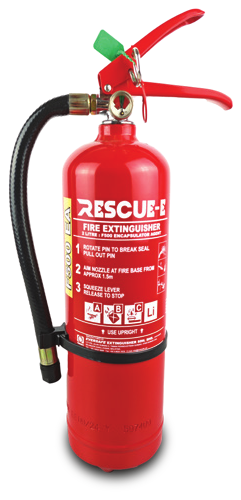
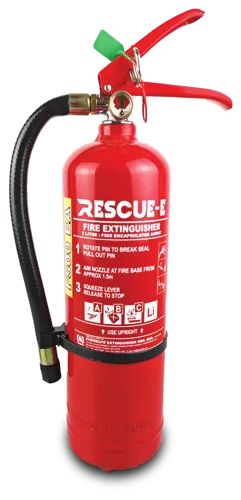
Cut page weight by 80 percent and fix truncated titles
Applies the outstanding quick wins from the SEO audit.

Images
  trimylogo.webp   1818x1818, 473 KB -> 160x160, 11 KB
The logo renders at 46 pixels in the header and 42 in the footer and is
referenced four times per page, so it accounted for roughly 950 KB of a
1,078 KB page load on its own. Product imagery was recompressed and capped
at an 800 pixel long edge, 1,320 KB to 270 KB across ten files, with no
visible difference at the size these render.

Measured on the homepage at 390px: 1,078 KB to 261 KB transferred, LCP
1,820 ms to 928 ms.

Metadata
Every page had a title over the roughly 60 characters Google displays, the
homepage worst at 101, and six had descriptions over the 155 character limit,
the homepage at 256. All titles are now 42 to 54 characters and all
descriptions 123 to 137, so neither is cut off in results. og:title and
og:description follow the same text.

Headings
Products, Services and Contact used their own nav label as the H1, spending
the strongest on-page signal on a category word. They now read Fire
Protection Products, Fire Protection Services and Contact Trimy Fire Tech.

The homepage H1 and H2s are left exactly as written. They carry no target
keywords, which has an SEO cost, but they are deliberate brand copy from the
PR #8 redesign rather than placeholders, so that tradeoff belongs to the
author and not to this change.

Verified in a browser at 390px and 1440px across all eleven content pages:
[…]

diff --git a/products/index.html b/products/index.html
@@ -3,8 +3,8 @@
 <head>
 <meta charset="utf-8">
 <meta name="viewport" content="width=device-width, initial-scale=1">
-<title>Fire Protection Products Johor | Fire Systems, Extinguishers, EV Fire Safety | Trimy Fire Tech</title>
-<meta name="description" content="Fire protection products in Johor. Fire protection and fire suppression systems, fire extinguishers in 1KG, 3KG and 9KG, fire blankets, smoke detectors, Bomba licence application and renewal, and SIRIM approved EV fire safety equipment.">
+<title>Fire Extinguishers and Safety Products | Johor Bahru</title>
+<meta name="description" content="Fire extinguishers from 1KG to 9KG, fire blankets, EV fire safety equipment and signage, delivered across Johor Bahru and Johor.">
 <meta name="keywords" content="fire protection products Johor, fire system supplier Johor, fire extinguisher 1KG, fire extinguisher 3KG, fire extinguisher 9KG, fire extinguisher stand Johor, fire safety signage Johor, fire blanket Malaysia, smoke detector Johor, emergency key box Malaysia, bomba licence Johor, bomba licence renewal Johor, new bomba licence, EV fire blanket SIRIM, EEV2, EEV9, MEM45, EV fire safety Malaysia, fire suppression system Johor, fire protection system Johor">
 <meta name="author" content="Trimy Fire Tech Sdn Bhd">
 <meta name="theme-color" content="#053097">
@@ -13,8 +13,8 @@
 
 <meta property="og:type" content="website">
 <meta property="og:site_name" content="Trimy Fire Tech Sdn Bhd">
-<meta property="og:title" content="Fire Protection Products Johor | Fire Systems, Extinguishers, EV Fire Safety | Trimy Fire Tech">
-<meta property="og:description" content="Fire protection products in Johor. Fire protection and fire suppression systems, fire extinguishers in 1KG, 3KG and 9KG, fire blankets, smoke detectors, Bomba licence application and renewal, and SIRIM approved EV fire safety equipment.">
+<meta property="og:title" content="Fire Extinguishers and Safety Products | Johor Bahru">
+<meta property="og:description" content="Fire extinguishers from 1KG to 9KG, fire blankets, EV fire safety equipment and signage, delivered across Johor Bahru and Johor.">
 <meta property="og:url" content="https://trimyfire.com.my/products/">
 <meta property="og:image" content="https://trimyfire.com.my/images/products-banner.jpg">
 <meta property="og:locale" content="en_MY">
@@ -72,7 +72,7 @@
   <img class="pbanner__bg" src="/images/products-banner.jpg" alt="" aria-hidden="true">
   <div class="wrap"><div class="pbanner__inner">
     <p class="crumbs"><a href="/">Home</a> &nbsp;/&nbsp; Products</p>
-    <h1 class="h-xl">Products</h1>
+    <h1 class="h-xl">Fire Protection Products</h1>
     <p>Everything from complete building systems to a single fire extinguisher. Choose a category below.</p>
   </div></div>
 </section>

diff --git a/services/index.html b/services/index.html
@@ -3,8 +3,8 @@
 <head>
 <meta charset="utf-8">
 <meta name="viewport" content="width=device-width, initial-scale=1">
-<title>Fire Protection Services Johor | Fire System Installation, Servicing, Bomba | Trimy Fire Tech</title>
-<meta name="description" content="Fire protection services in Johor. Fire system design and installation, fire suppression systems, scheduled maintenance and servicing, Bomba submission and Fire Certificate renewal for commercial and industrial premises.">
+<title>Fire Protection Services Johor Bahru | Trimy Fire Tech</title>
+<meta name="description" content="Fire system design, installation, servicing and Bomba submission for commercial and industrial premises across Johor Bahru and Johor.">
 <meta name="keywords" content="fire protection services Johor, fire system services Johor, fire protection contractor Johor, fire alarm servicing Johor, sprinkler installation Johor, hydrant servicing Johor, hose reel servicing Johor, bomba submission Johor, fire certificate renewal Johor, fire system maintenance Johor, CO2 panel troubleshooting Johor, fire extinguisher servicing Johor, fire suppression system Johor, fire safety training Johor">
 <meta name="author" content="Trimy Fire Tech Sdn Bhd">
 <meta name="theme-color" content="#053097">
@@ -13,8 +13,8 @@
 
 <meta property="og:type" content="website">
 <meta property="og:site_name" content="Trimy Fire Tech Sdn Bhd">
-<meta property="og:title" content="Fire Protection Services Johor | Fire System Installation, Servicing, Bomba | Trimy Fire Tech">
-<meta property="og:description" content="Fire protection services in Johor. Fire system design and installation, fire suppression systems, scheduled maintenance and servicing, Bomba submission and Fire Certificate renewal for commercial and industrial premises.">
+<meta property="og:title" content="Fire Protection Services Johor Bahru | Trimy Fire Tech">
+<meta property="og:description" content="Fire system design, installation, servicing and Bomba submission for commercial and industrial premises across Johor Bahru and Johor.">
 <meta property="og:url" content="https://trimyfire.com.my/services/">
 <meta property="og:image" content="https://trimyfire.com.my/images/services-banner.jpg">
 <meta property="og:locale" content="en_MY">
@@ -84,7 +84,7 @@
   <img class="pbanner__bg" src="/images/services-banner.jpg" alt="" aria-hidden="true">
   <div class="wrap"><div class="pbanner__inner">
     <p class="crumbs"><a href="/">Home</a> &nbsp;/&nbsp; Services</p>
-    <h1 class="h-xl">Services</h1>
+    <h1 class="h-xl">Fire Protection Services</h1>
     <p>Design, installation, commissioning, certification and scheduled maintenance delivered under a single contract.</p>
   </div></div>
 </section>

diff --git a/index.html b/index.html
@@ -3,8 +3,8 @@
 <head>
 <meta charset="utf-8">
 <meta name="viewport" content="width=device-width, initial-scale=1">
-<title>Fire Protection System Supplier Johor | Fire Systems, Extinguishers, EV Fire Safety | Trimy Fire Tech</title>
-<meta name="description" content="Fire protection system supplier in Johor. Fire protection and fire suppression systems for factories, malls and offices. Fire alarm, sprinkler, hydrant, fire extinguisher supply and servicing, Bomba certification and SIRIM approved EV fire safety products.">
+<title>Fire Protection Systems Johor Bahru | Trimy Fire Tech</title>
+<meta name="description" content="Fire protection systems, extinguishers and Bomba certification for commercial and industrial premises across Johor Bahru and Johor.">
 <meta name="keywords" content="fire protection system supplier Johor, fire protection system Johor, fire suppression system Johor, fire alarm system Johor Bahru, sprinkler system Johor, hydrant system Johor, hose reel system Johor, fire extinguisher Johor Bahru, fire extinguisher supplier Johor, bomba certificate Johor, bomba licence renewal Johor, fire certificate renewal Malaysia, EV fire safety Malaysia, EV fire blanket SIRIM, EV car fire extinguisher, lithium battery fire Malaysia, CO2 suppression system Johor, smoke detector Johor, fire blanket Malaysia, fire safety training Johor, fire protection contractor Johor Bahru">
 <meta name="author" content="Trimy Fire Tech Sdn Bhd">
 <meta name="theme-color" content="#053097">
@@ -13,8 +13,8 @@
 
 <meta property="og:type" content="website">
 <meta property="og:site_name" content="Trimy Fire Tech Sdn Bhd">
-<meta property="og:title" content="Fire Protection System Supplier Johor | Fire Systems, Extinguishers, EV Fire Safety | Trimy Fire Tech">
-<meta property="og:description" content="Fire protection system supplier in Johor. Fire protection and fire suppression systems for factories, malls and offices. Fire alarm, sprinkler, hydrant, fire extinguisher supply and servicing, Bomba certification and SIRIM approved EV fire safety products.">
+<meta property="og:title" content="Fire Protection Systems Johor Bahru | Trimy Fire Tech">
+<meta property="og:description" content="Fire protection systems, extinguishers and Bomba certification for commercial and industrial premises across Johor Bahru and Johor.">
 <meta property="og:url" content="https://trimyfire.com.my/">
 <meta property="og:image" content="https://trimyfire.com.my/images/services-banner.jpg">
 <meta property="og:locale" content="en_MY">

diff --git a/contact.html b/contact.html
@@ -3,8 +3,8 @@
 <head>
 <meta charset="utf-8">
 <meta name="viewport" content="width=device-width, initial-scale=1">
-<title>Contact Trimy Fire Tech | Fire System and Fire Extinguisher Enquiries, Johor</title>
-<meta name="description" content="Contact Trimy Fire Tech in Kulai, Johor for fire protection system installation, maintenance, equipment supply and Bomba submission. Telephone +6012 779 9808.">
+<title>Contact Trimy Fire Tech | Johor Bahru and Kulai</title>
+<meta name="description" content="Contact Trimy Fire Tech in Kulai for fire system installation, servicing, equipment supply and Bomba submission. Call +6012 779 9808.">
 <meta name="keywords" content="contact fire protection company Johor, fire protection contractor Kulai, fire extinguisher supplier Johor Bahru contact, bomba submission help Johor, fire alarm support Johor">
 <meta name="author" content="Trimy Fire Tech Sdn Bhd">
 <meta name="theme-color" content="#053097">
@@ -13,8 +13,8 @@
 
 <meta property="og:type" content="website">
 <meta property="og:site_name" content="Trimy Fire Tech Sdn Bhd">
-<meta property="og:title" content="Contact Trimy Fire Tech | Fire System and Fire Extinguisher Enquiries, Johor">
-<meta property="og:description" content="Contact Trimy Fire Tech in Kulai, Johor for fire protection system installation, maintenance, equipment supply and Bomba submission. Telephone +6012 779 9808.">
+<meta property="og:title" content="Contact Trimy Fire Tech | Johor Bahru and Kulai">
+<meta property="og:description" content="Contact Trimy Fire Tech in Kulai for fire system installation, servicing, equipment supply and Bomba submission. Call +6012 779 9808.">
 <meta property="og:url" content="https://trimyfire.com.my/contact.html">
 <meta property="og:image" content="https://trimyfire.com.my/images/contact-banner.jpg">
 <meta property="og:locale" content="en_MY">
@@ -84,7 +84,7 @@
   <img class="pbanner__bg" src="/images/contact-banner.jpg" alt="" aria-hidden="true">
   <div class="wrap"><div class="pbanner__inner">
     <p class="crumbs"><a href="/">Home</a> &nbsp;/&nbsp; Contact Us</p>
-    <h1 class="h-xl">Contact</h1>
+    <h1 class="h-xl">Contact Trimy Fire Tech</h1>
     <p>Submit details of the facility and the works required. Enquiries are answered within one working day. For urgent matters, WhatsApp provides the fastest response.</p>
   </div></div>
 </section>

diff --git a/products/fire-extinguishers/index.html b/products/fire-extinguishers/index.html
@@ -3,8 +3,8 @@
 <head>
 <meta charset="utf-8">
 <meta name="viewport" content="width=device-width, initial-scale=1">
-<title>Fire Extinguisher Supplier Johor | 1KG, 3KG, 9KG, Blanket, Bomba Licence | Trimy Fire Tech</title>
-<meta name="description" content="Fire extinguisher supplier in Johor. Dry powder 1KG, 3KG and 9KG, CO2 extinguishers, fire blankets, smoke detectors, extinguisher stands, safety signage, emergency key box, plus new Bomba licence application and annual renewal.">
+<title>Fire Extinguisher Supplier Johor Bahru | Trimy</title>
+<meta name="description" content="Fire extinguishers 1KG, 3KG and 9KG, fire blankets, detectors, signage and Bomba licence work. Supplied across Johor Bahru and Johor.">
 <meta name="keywords" content="fire extinguisher supplier Johor, fire extinguisher Johor, fire extinguisher 1KG, fire extinguisher 3KG, fire extinguisher 9KG, CO2 fire extinguisher Johor, fire extinguisher price Johor, fire extinguisher refill Johor, fire extinguisher servicing Johor, fire extinguisher stand, fire safety signage Johor, fire blanket Malaysia, smoke detector Johor, emergency key box Malaysia, new bomba licence Johor, bomba licence renewal Johor, bomba certificate Johor">
 <meta name="author" content="Trimy Fire Tech Sdn Bhd">
 <meta name="theme-color" content="#053097">
@@ -13,8 +13,8 @@
 
 <meta property="og:type" content="website">
 <meta property="og:site_name" content="Trimy Fire Tech Sdn Bhd">
-<meta property="og:title" content="Fire Extinguisher Supplier Johor | 1KG, 3KG, 9KG, Blanket, Bomba Licence | Trimy Fire Tech">
-<meta property="og:description" content="Fire extinguisher supplier in Johor. Dry powder 1KG, 3KG and 9KG, CO2 extinguishers, fire blankets, smoke detectors, extinguisher stands, safety signage, emergency key box, plus new Bomba licence application and annual renewal.">
+<meta property="og:title" content="Fire Extinguisher Supplier Johor Bahru | Trimy">
+<meta property="og:description" content="Fire extinguishers 1KG, 3KG and 9KG, fire blankets, detectors, signage and Bomba licence work. Supplied across Johor Bahru and Johor.">
 <meta property="og:url" content="https://trimyfire.com.my/products/fire-extinguishers/">
 <meta property="og:image" content="https://trimyfire.com.my/images/products-banner.jpg">
 <meta property="og:locale" content="en_MY">

diff --git a/products/ev-fire-safety/index.html b/products/ev-fire-safety/index.html
@@ -3,8 +3,8 @@
 <head>
 <meta charset="utf-8">
 <meta name="viewport" content="width=device-width, initial-scale=1">
-<title>EV Fire Safety Malaysia | EEV2, EEV9, MEM45 and SIRIM EV Fire Blanket | Trimy Fire Tech</title>
-<meta name="description" content="EV fire safety equipment in Malaysia. EEV2 2L and EEV9 9L EV rated extinguishers, MEM45 mobile unit and a SIRIM approved EV fire blanket for electric vehicle and lithium battery fires in car parks, workshops and EV charging bays.">
+<title>EV Fire Safety Equipment Malaysia | Trimy Fire Tech</title>
+<meta name="description" content="EV rated fire extinguishers and mobile units for electric vehicle and lithium battery fires in car parks, workshops and charging bays.">
 <meta name="keywords" content="EV fire safety Malaysia, EV fire extinguisher Malaysia, EEV2, EEV9, MEM45, EV fire blanket, EV fire blanket SIRIM, electric vehicle fire blanket Malaysia, EV car fire Malaysia, lithium battery fire Malaysia, lithium battery fire extinguisher, EV charging bay fire safety, car park EV fire safety Johor, electric vehicle fire suppression Malaysia, EV workshop fire safety">
 <meta name="author" content="Trimy Fire Tech Sdn Bhd">
 <meta name="theme-color" content="#053097">
@@ -13,8 +13,8 @@
 
 <meta property="og:type" content="website">
 <meta property="og:site_name" content="Trimy Fire Tech Sdn Bhd">
-<meta property="og:title" content="EV Fire Safety Malaysia | EEV2, EEV9, MEM45 and SIRIM EV Fire Blanket | Trimy Fire Tech">
-<meta property="og:description" content="EV fire safety equipment in Malaysia. EEV2 2L and EEV9 9L EV rated extinguishers, MEM45 mobile unit and a SIRIM approved EV fire blanket for electric vehicle and lithium battery fires in car parks, workshops and EV charging bays.">
+<meta property="og:title" content="EV Fire Safety Equipment Malaysia | Trimy Fire Tech">
+<meta property="og:description" content="EV rated fire extinguishers and mobile units for electric vehicle and lithium battery fires in car parks, workshops and charging bays.">
 <meta property="og:url" content="https://trimyfire.com.my/products/ev-fire-safety/">
 <meta property="og:image" content="https://trimyfire.com.my/images/products-banner.jpg">
 <meta property="og:locale" content="en_MY">

diff --git a/about.html b/about.html
@@ -3,8 +3,8 @@
 <head>
 <meta charset="utf-8">
 <meta name="viewport" content="width=device-width, initial-scale=1">
-<title>About Trimy Fire Tech | Fire Protection System Supplier in Johor</title>
-<meta name="description" content="Trimy Fire Tech Sdn Bhd is a CIDB registered fire protection system supplier serving factories, hospitals, data centres and commercial buildings across Johor, Malaysia.">
+<title>About Trimy Fire Tech | Fire Protection Johor</title>
+<meta name="description" content="CIDB registered fire protection contractor in Kulai, serving factories, hospitals and commercial buildings across Johor Bahru and Johor.">
 <meta name="keywords" content="fire protection company Johor, fire protection contractor Johor Bahru, fire safety specialist Kulai, CIDB fire contractor Malaysia, fire system installer Johor, about Trimy Fire Tech">
 <meta name="author" content="Trimy Fire Tech Sdn Bhd">
 <meta name="theme-color" content="#053097">
@@ -13,8 +13,8 @@
 
 <meta property="og:type" content="website">
 <meta property="og:site_name" content="Trimy Fire Tech Sdn Bhd">
-<meta property="og:title" content="About Trimy Fire Tech | Fire Protection System Supplier in Johor">
-<meta property="og:description" content="Trimy Fire Tech Sdn Bhd is a CIDB registered fire protection system supplier serving factories, hospitals, data centres and commercial buildings across Johor, Malaysia.">
+<meta property="og:title" content="About Trimy Fire Tech | Fire Protection Johor">
+<meta property="og:description" content="CIDB registered fire protection contractor in Kulai, serving factories, hospitals and commercial buildings across Johor Bahru and Johor.">
 <meta property="og:url" content="https://trimyfire.com.my/about.html">
 <meta property="og:image" content="https://trimyfire.com.my/images/services-banner.jpg">
 <meta property="og:locale" content="en_MY">

diff --git a/services/maintenance-servicing-fire-systems/index.html b/services/maintenance-servicing-fire-systems/index.html
@@ -3,14 +3,14 @@
 <head>
 <meta charset="utf-8">
 <meta name="viewport" content="width=device-width, initial-scale=1">
-<title>Fire System Maintenance and Servicing Johor | Scheduled Contracts | Trimy Fire Tech</title>
-<meta name="description" content="Scheduled maintenance and servicing of fire alarm, sprinkler, hydrant, hose reel and suppression systems across Johor Bahru and Johor. Records kept ready for inspection.">
+<title>Fire System Maintenance Johor Bahru | Trimy</title>
+<meta name="description" content="Scheduled maintenance of fire alarm, sprinkler, hydrant and suppression systems across Johor Bahru and Johor, with records kept in order.">
 <link rel="canonical" href="https://trimyfire.com.my/services/maintenance-servicing-fire-systems/">
 <meta name="robots" content="index,follow">
 <meta property="og:type" content="website">
 <meta property="og:site_name" content="Trimy Fire Tech">
-<meta property="og:title" content="Fire System Maintenance and Servicing Johor | Scheduled Contracts | Trimy Fire Tech">
-<meta property="og:description" content="Scheduled maintenance and servicing of fire alarm, sprinkler, hydrant, hose reel and suppression systems across Johor Bahru and Johor. Records kept ready for inspection.">
+<meta property="og:title" content="Fire System Maintenance Johor Bahru | Trimy">
+<meta property="og:description" content="Scheduled maintenance of fire alarm, sprinkler, hydrant and suppression systems across Johor Bahru and Johor, with records kept in order.">
 <meta property="og:url" content="https://trimyfire.com.my/services/maintenance-servicing-fire-systems/">
 <meta property="og:image" content="https://trimyfire.com.my/images/gallery/services/11.jpg">
 <meta name="twitter:card" content="summary_large_image">

diff --git a/services/fire-protection-systems/index.html b/services/fire-protection-systems/index.html
@@ -3,14 +3,14 @@
 <head>
 <meta charset="utf-8">
 <meta name="viewport" content="width=device-width, initial-scale=1">
-<title>Fire Protection System Johor Bahru | Design, Install, Certify | Trimy Fire Tech</title>
-<meta name="description" content="Fire protection system design, installation and Bomba submission in Johor Bahru and Johor. Fire alarm, sprinkler, hydrant and hose reel systems for commercial and industrial buildings.">
+<title>Fire Protection System Johor Bahru | Trimy Fire Tech</title>
+<meta name="description" content="Fire alarm, sprinkler, hydrant and hose reel system design, installation and Bomba submission across Johor Bahru and Johor.">
 <link rel="canonical" href="https://trimyfire.com.my/services/fire-protection-systems/">
 <meta name="robots" content="index,follow">
 <meta property="og:type" content="website">
 <meta property="og:site_name" content="Trimy Fire Tech">
-<meta property="og:title" content="Fire Protection System Johor Bahru | Design, Install, Certify | Trimy Fire Tech">
-<meta property="og:description" content="Fire protection system design, installation and Bomba submission in Johor Bahru and Johor. Fire alarm, sprinkler, hydrant and hose reel systems for commercial and industrial buildings.">
+<meta property="og:title" content="Fire Protection System Johor Bahru | Trimy Fire Tech">
+<meta property="og:description" content="Fire alarm, sprinkler, hydrant and hose reel system design, installation and Bomba submission across Johor Bahru and Johor.">
 <meta property="og:url" content="https://trimyfire.com.my/services/fire-protection-systems/">
 <meta property="og:image" content="https://trimyfire.com.my/images/gallery/services/3.jpg">
 <meta name="twitter:card" content="summary_large_image">

diff --git a/products/fire-extinguishers-maintenance/index.html b/products/fire-extinguishers-maintenance/index.html
@@ -3,14 +3,14 @@
 <head>
 <meta charset="utf-8">
 <meta name="viewport" content="width=device-width, initial-scale=1">
-<title>Fire Extinguisher Servicing and Refilling Johor Bahru | Trimy Fire Tech</title>
-<meta name="description" content="Annual fire extinguisher servicing, refilling and pressure testing across Johor Bahru and Johor. Records kept in order for Bomba inspection and premises audits.">
+<title>Fire Extinguisher Servicing Johor Bahru | Trimy</title>
+<meta name="description" content="Annual fire extinguisher servicing, refilling and pressure testing across Johor Bahru and Johor. Records kept ready for Bomba inspection.">
 <link rel="canonical" href="https://trimyfire.com.my/products/fire-extinguishers-maintenance/">
 <meta name="robots" content="index,follow">
 <meta property="og:type" content="website">
 <meta property="og:site_name" content="Trimy Fire Tech">
-<meta property="og:title" content="Fire Extinguisher Servicing and Refilling Johor Bahru | Trimy Fire Tech">
-<meta property="og:description" content="Annual fire extinguisher servicing, refilling and pressure testing across Johor Bahru and Johor. Records kept in order for Bomba inspection and premises audits.">
+<meta property="og:title" content="Fire Extinguisher Servicing Johor Bahru | Trimy">
+<meta property="og:description" content="Annual fire extinguisher servicing, refilling and pressure testing across Johor Bahru and Johor. Records kept ready for Bomba inspection.">
 <meta property="og:url" content="https://trimyfire.com.my/products/fire-extinguishers-maintenance/">
 <meta property="og:image" content="https://trimyfire.com.my/images/products/eversafe-extinguisher-stands.webp">
 <meta name="twitter:card" content="summary_large_image">

diff --git a/products/ev-fire-blanket/index.html b/products/ev-fire-blanket/index.html
@@ -3,14 +3,14 @@
 <head>
 <meta charset="utf-8">
 <meta name="viewport" content="width=device-width, initial-scale=1">
-<title>EV Fire Blanket Malaysia | SIRIM Tested Electric Vehicle Blanket | Trimy Fire Tech</title>
-<meta name="description" content="EV fire blanket for electric vehicle and lithium battery fires. Supplied for car parks, workshops, showrooms and EV charging bays across Johor Bahru and Malaysia.">
+<title>EV Fire Blanket Malaysia | Trimy Fire Tech</title>
+<meta name="description" content="EV fire blanket for electric vehicle and lithium battery fires. Supplied for car parks, workshops and charging bays across Malaysia.">
 <link rel="canonical" href="https://trimyfire.com.my/products/ev-fire-blanket/">
 <meta name="robots" content="index,follow">
 <meta property="og:type" content="website">
 <meta property="og:site_name" content="Trimy Fire Tech">
-<meta property="og:title" content="EV Fire Blanket Malaysia | SIRIM Tested Electric Vehicle Blanket | Trimy Fire Tech">
-<meta property="og:description" content="EV fire blanket for electric vehicle and lithium battery fires. Supplied for car parks, workshops, showrooms and EV charging bays across Johor Bahru and Malaysia.">
+<meta property="og:title" content="EV Fire Blanket Malaysia | Trimy Fire Tech">
+<meta property="og:description" content="EV fire blanket for electric vehicle and lithium battery fires. Supplied for car parks, workshops and charging bays across Malaysia.">
 <meta property="og:url" content="https://trimyfire.com.my/products/ev-fire-blanket/">
 <meta property="og:image" content="https://trimyfire.com.my/images/products/rescuee-ev-fire-blanket.webp">
 <meta name="twitter:card" content="summary_large_image">

diff --git a/services/fire-suppression-systems/index.html b/services/fire-suppression-systems/index.html
@@ -3,14 +3,14 @@
 <head>
 <meta charset="utf-8">
 <meta name="viewport" content="width=device-width, initial-scale=1">
-<title>Fire Suppression System Johor | Clean Agent, CO2, Data Centre | Trimy Fire Tech</title>
-<meta name="description" content="Fire suppression system design and installation in Johor. Clean agent, CO2 and gas suppression for data centres, server rooms, plant rooms and switch rooms.">
+<title>Fire Suppression System Johor | Trimy Fire Tech</title>
+<meta name="description" content="Clean agent and CO2 fire suppression for data centres, server rooms, switch rooms and plant rooms across Johor Bahru and Johor.">
 <link rel="canonical" href="https://trimyfire.com.my/services/fire-suppression-systems/">
 <meta name="robots" content="index,follow">
 <meta property="og:type" content="website">
 <meta property="og:site_name" content="Trimy Fire Tech">
-<meta property="og:title" content="Fire Suppression System Johor | Clean Agent, CO2, Data Centre | Trimy Fire Tech">
-<meta property="og:description" content="Fire suppression system design and installation in Johor. Clean agent, CO2 and gas suppression for data centres, server rooms, plant rooms and switch rooms.">
+<meta property="og:title" content="Fire Suppression System Johor | Trimy Fire Tech">
+<meta property="og:description" content="Clean agent and CO2 fire suppression for data centres, server rooms, switch rooms and plant rooms across Johor Bahru and Johor.">
 <meta property="og:url" content="https://trimyfire.com.my/services/fire-suppression-systems/">
 <meta property="og:image" content="https://trimyfire.com.my/images/gallery/services/16.jpg">
 <meta name="twitter:card" content="summary_large_image">
